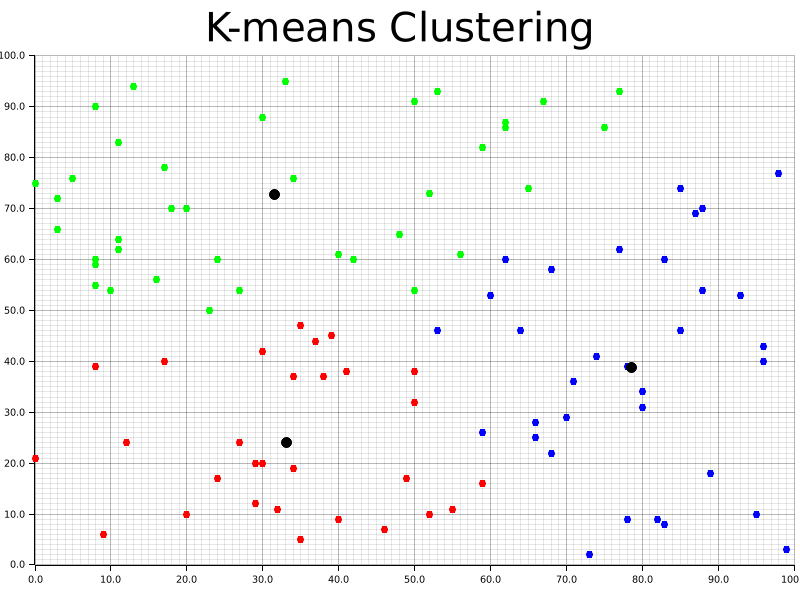
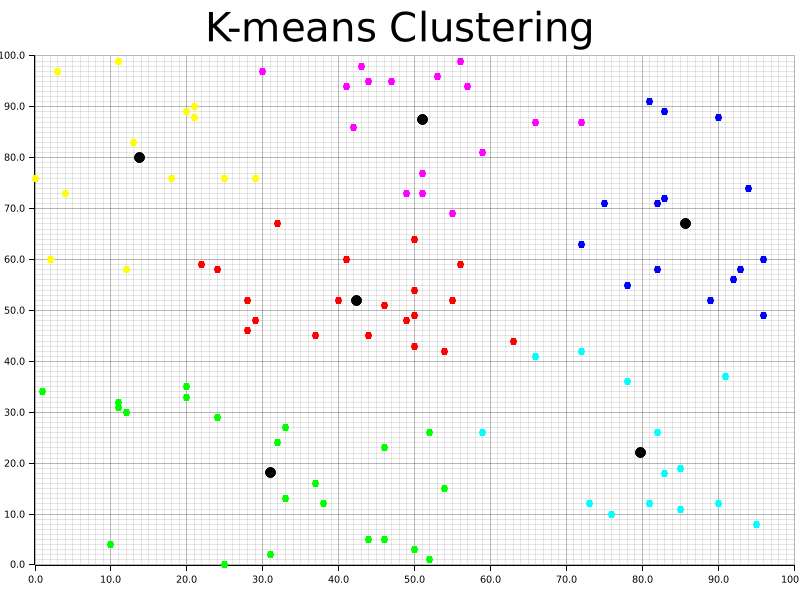
broken plus plus implementation v1

diff --git a/src/lib.rs b/src/lib.rs
@@ -47,7 +47,69 @@ impl Centroids {
             })
             .collect()
     }
+    pub fn plus_plus_initialize(k: usize, points: &[Point]) -> Vec<Centroid> {
+        let mut rng = rand::thread_rng();
+        // set initial centroid as first
+        let centroids: Vec[Point] = Vec::with_capacity(k);
+        let c0: Point = points[0];
+        centroids.push(c0);
+        for _ k.iter() {
+            // calculate dist b/w point and it's nearest centroid
+            // get list of those
+            dist_sq: Vec<f64> = Vec::with_capacity(points.len());
+            for point in points {
+                let closest_centroid_index = centroids
+                .iter()
+                .enumerate()
+                .min_by_key(|(_, centroid)| {
+                    let dist = distance(*point, centroid.coordinate);
+                    (dist * 1000.0) as i64 // Convert to integer for comparison
+                } )
+                .map(|(index, _)| index)
+                .unwrap();
+            }
+            dist_sq[closest_centroid_index].push(*point);
+
+            // calculate prob / sum for each element, ps
+            let probs: Vec<f64> = dist_sq.iter()
+            .map(|&d| d / dist_sq.iter().sum()::<f64>())
+            .collect();
+
+            // calculate cumsum (.1,.2,.4..3)->(.1,.3,.7,1.0)
+            pub fn cumsum(probs: Vec<f64>)-> Vec<f64> {
+                // O(n)
+                let mut cumulative_probs = Vec::with_capacity(probs.len());
+                let mut sum = 0.0;
+                for &prob in probs.iter() {
+                    sum += prob;
+                    cumulative_probs.push(sum);
+                }
+            }
+            let cumsum_vec: Vec<64> = cumsum(probs);
+            // vs O(n^2)
+            // let cumprobs: Vec<f64> = probs.iter()
+            // .enumerate()
+            // .map(|index &p| probs.iter().take(index+1).sum()::<f64>())
+            // .collect();
+
+            // get a random num, r
+            let r: f64 = rand.gen(); // float bw 0 and 1 
+
+            // for i, p in enumerate(ps) if r < p then centroids.append(points[i])
+            for (i, p) in cumsum_vec.iter()
+            .enumerate() {
+                if r < p {
+                    let j = i;
+                }
+                break;
+            }
+            // -> these two steps are a computationally efficient, hacky way
+            // of 'indexing' a prob close to those generated
+
+        centroids.push(&points[j]);
+        }
     }
+}
 
 pub fn calculate_centroid(cluster: Vec<Point>) -> Centroid {
     // cluster.iter().x.sum() / cluster.len()
@@ -63,9 +125,7 @@ pub fn calculate_centroid(cluster: Vec<Point>) -> Centroid {
     }
 }
 
-// pub fn assign_clusters(points: Vec<Point>, centroids: Vec<Centroid>) {
-//     // (0..points.len()).map()
-// }
+
 pub fn assign_clusters(points: &[Point], centroids: &[Centroid]) -> Vec<Vec<Point>> {
     let mut clusters: Vec<Vec<Point>> = vec![Vec::new(); centroids.len()];
     
@@ -90,7 +150,7 @@ pub fn k_means_naive(k: usize, points: Vec<Point>, max_iterations: usize) -> Vec
     let mut centroids = Centroids::randomly_initialize(k, &points);
     let mut clusters: Vec<Vec<Point>>;
     
-    for _ in 0..max_iterations {
+    for iter in 0..max_iterations {
         clusters = assign_clusters(&points, &centroids);
         
         let new_centroids: Vec<Centroid> = clusters
@@ -99,6 +159,7 @@ pub fn k_means_naive(k: usize, points: Vec<Point>, max_iterations: usize) -> Vec
             .collect();
         
         if new_centroids == centroids {
+            println!{"local minimum found before max iterations reached! {}/{} iters needed:", iter, max_iterations};
             break;
         }
         

diff --git a/src/main.rs b/src/main.rs
@@ -1,47 +1,21 @@
+use std::env;
 use rand::{distributions::Uniform, Rng}; // 0.8.0
-// use k_means::{generate_points, Point, calculate_centroid};
-
-
-// fn main() {
-//     let samples: usize = 5;
-//     let clusters: usize = 2;
-//     let points = generate_points(samples);
-//     let centroid = calculate_centroid(points);
-//     println!("{:?}", centroid)
-//     // k_means_naive(clusters, points);
-    
-// }
-
-// pub fn k_means_naive(k: usize, points: Vec<Point>) {
-//     // takes k clusters and Vec<Point> and returns Points organized by clusters
-//     let clusters = (0..k).map(|_| Vec::new() as Vec<Point>).collect::<Vec<_>>();
-//     println!("{:?}", clusters);
-// }
-
-use k_means::{generate_points, Point, k_means_naive};
 use k_means::plotting::{plot_clusters};
-
-// fn main() {
-//     let samples: usize = 100;
-//     let clusters: usize = 3;
-//     let points = generate_points(samples);
-//     let max_iterations = 100;
-    
-//     let result = k_means_naive(clusters, points, max_iterations);
-    
-//     for (i, cluster) in result.iter().enumerate() {
-//         println!("Cluster {}: {} points", i, cluster.len());
-//         println!("{:?}", cluster);
-//     }
-// }
-
-use k_means::{Centroid, calculate_centroid};
+use k_means::{Centroid, calculate_centroid, generate_points, Point, k_means_naive};
 
 fn main() -> Result<(), Box<dyn std::error::Error>> {
+    // expects `cargo run NUM_CLUSTERS`
+    let args: Vec<String> = env::args().collect();
+    if args.len() < 2 {
+        println!("number of clusters required!");
+        return Ok(());
+    }
+    // turbofish dis bish
+    let clusters: usize = args[1].parse::<usize>().unwrap();
     let samples: usize = 100;
-    let clusters: usize = 3;
-    let points = generate_points(samples);
     let max_iterations = 100;
+
+    let points = generate_points(samples);
     
     let result = k_means_naive(clusters, points.clone(), max_iterations);
     
